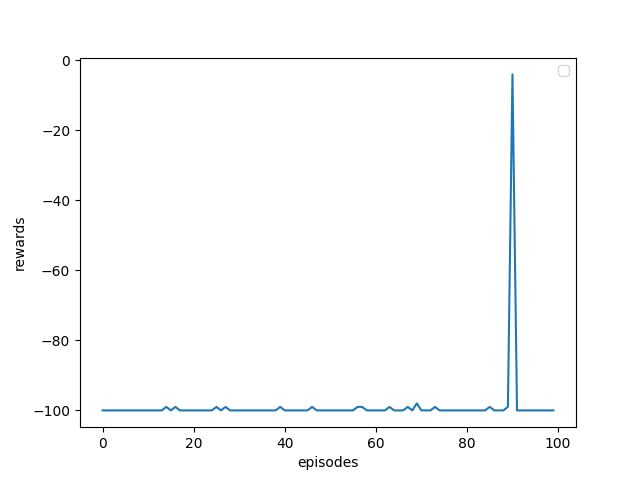
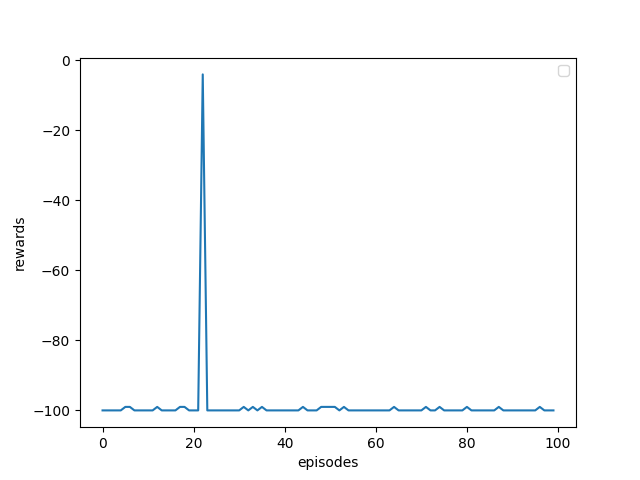
Iteration 5

Changed region(s): [[0.1875, 0.1562, 0.4375, 0.875], [0.7188, 0.1562, 0.8125, 0.875], [0.4688, 0.8438, 0.6875, 0.875]]

diff --git a/agent.py b/agent.py
@@ -16,7 +16,7 @@ class Agent:
 
         # Q-learning hyperparameters
         self.gamma = 0.95  # Discount rate
-        self.epsilon = 1  # Exploration rate
+        self.epsilon = 0.36972963764972655  # Exploration rate
         self.epsilon_min = 0.1  # Minimal exploration rate
         self.epsilon_decay = 0.99  # Decay rate for epsilon
 
